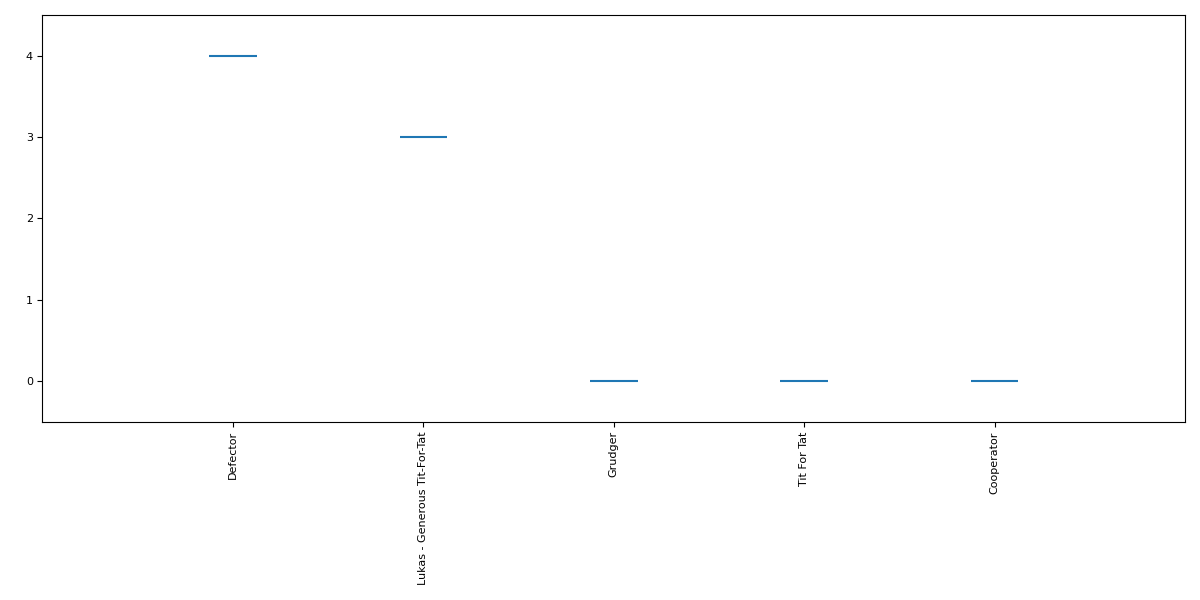
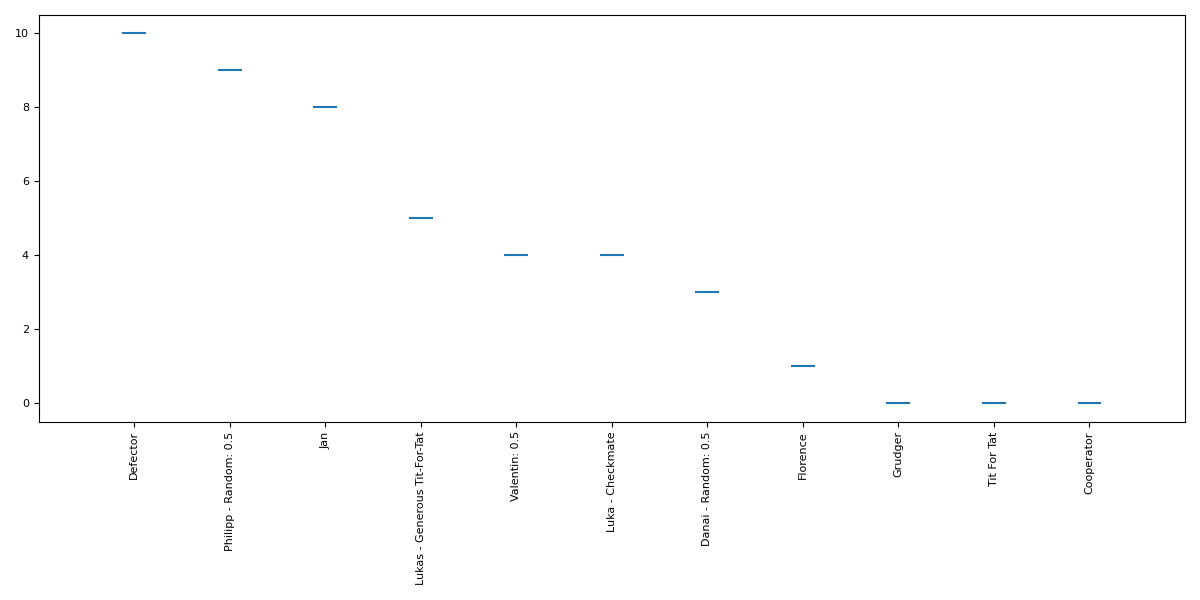
final results

diff --git a/was-tournament/was_tournament.py b/was-tournament/was_tournament.py
@@ -1,11 +1,26 @@
 import axelrod as axl
 from wasstrategies import danai_strategy as pl0
 from wasstrategies import florence_strategy as pl1
+from wasstrategies import lukas_strategy as pl2
+from wasstrategies import luka_strategy as pl3
+#from wasstrategies import noah_strategy as pl4
+from wasstrategies import philipp_strategy as pl5
+from wasstrategies import jan_strategy as pl6
+from wasstrategies import valentin_strategy as pl7
 
 """Run an Axelrod Tournament (https://axelrod.readthedocs.io/en/stable/tutorials/new_to_game_theory_and_or_python/tournament.html)"""
 # Create the strategy players
 strategies = [axl.Cooperator(), axl.Defector(),
-              axl.TitForTat(), axl.Grudger(), pl0.Danai(), pl1.Florence()]
+axl.TitForTat(), axl.Grudger(), pl0.Danai()
+, pl1.Florence()
+, pl2.Lukas()
+, pl3.Luka()
+#, pl4.Noah()
+, pl5.Philipp()
+, pl6.Jan()
+, pl7.Valentin()
+]
+
 # Print the startegy players
 print(f"Available strategies: {strategies}")
 
